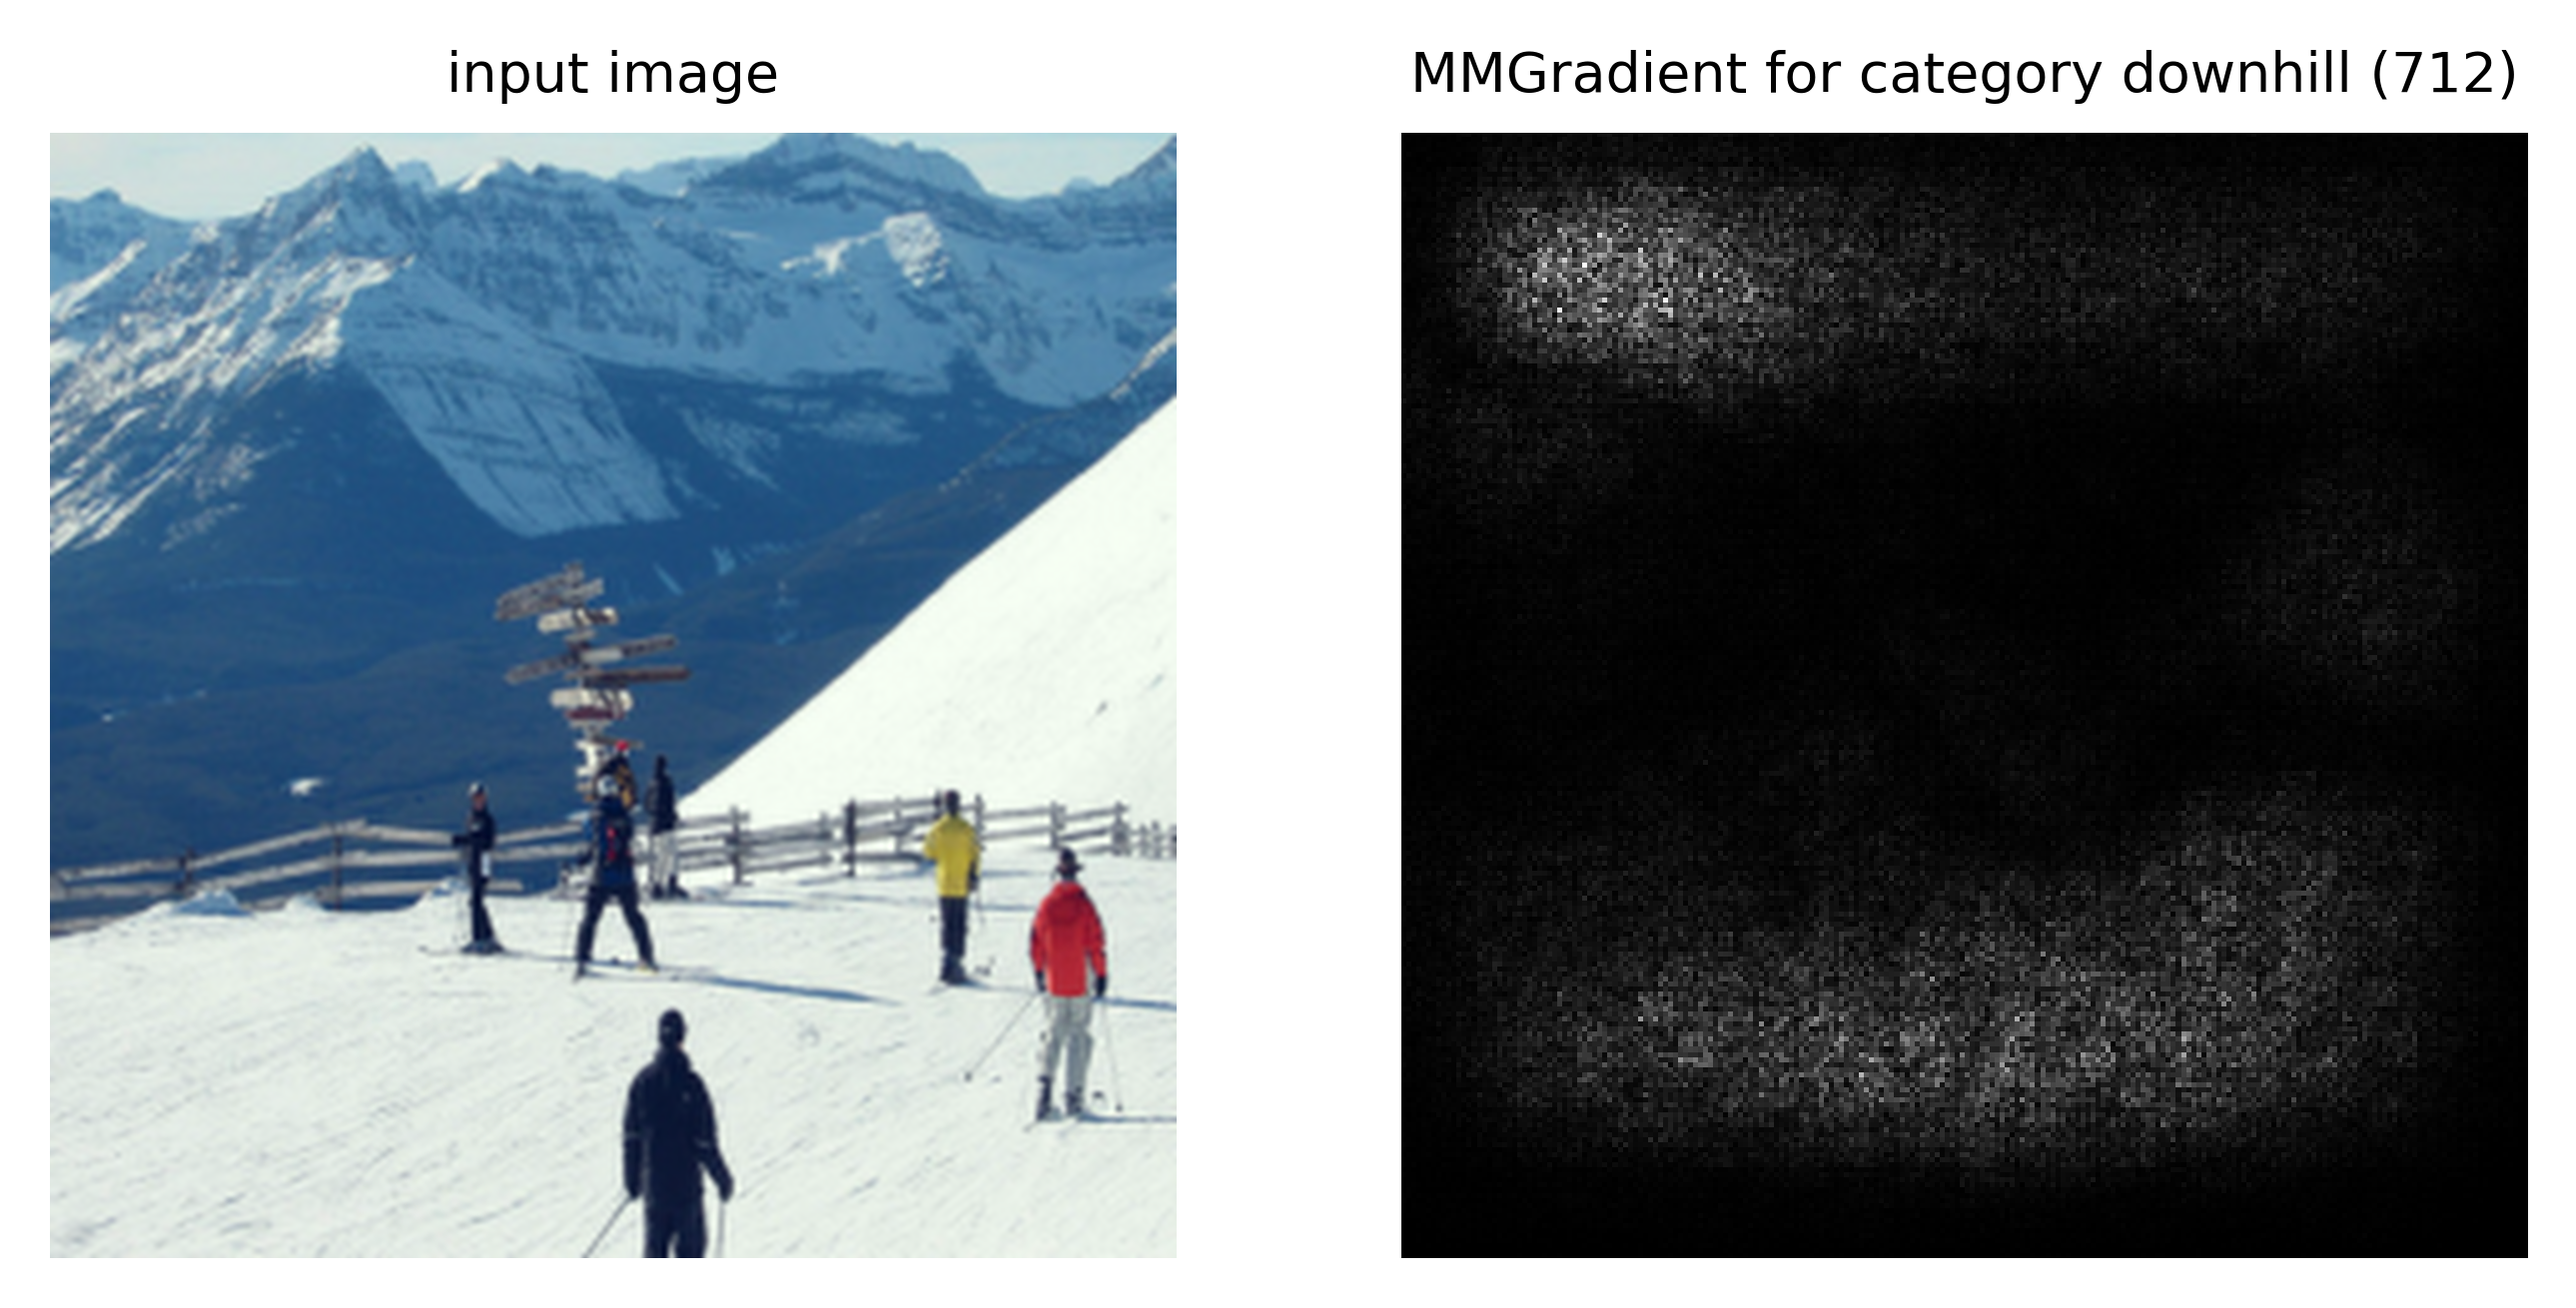
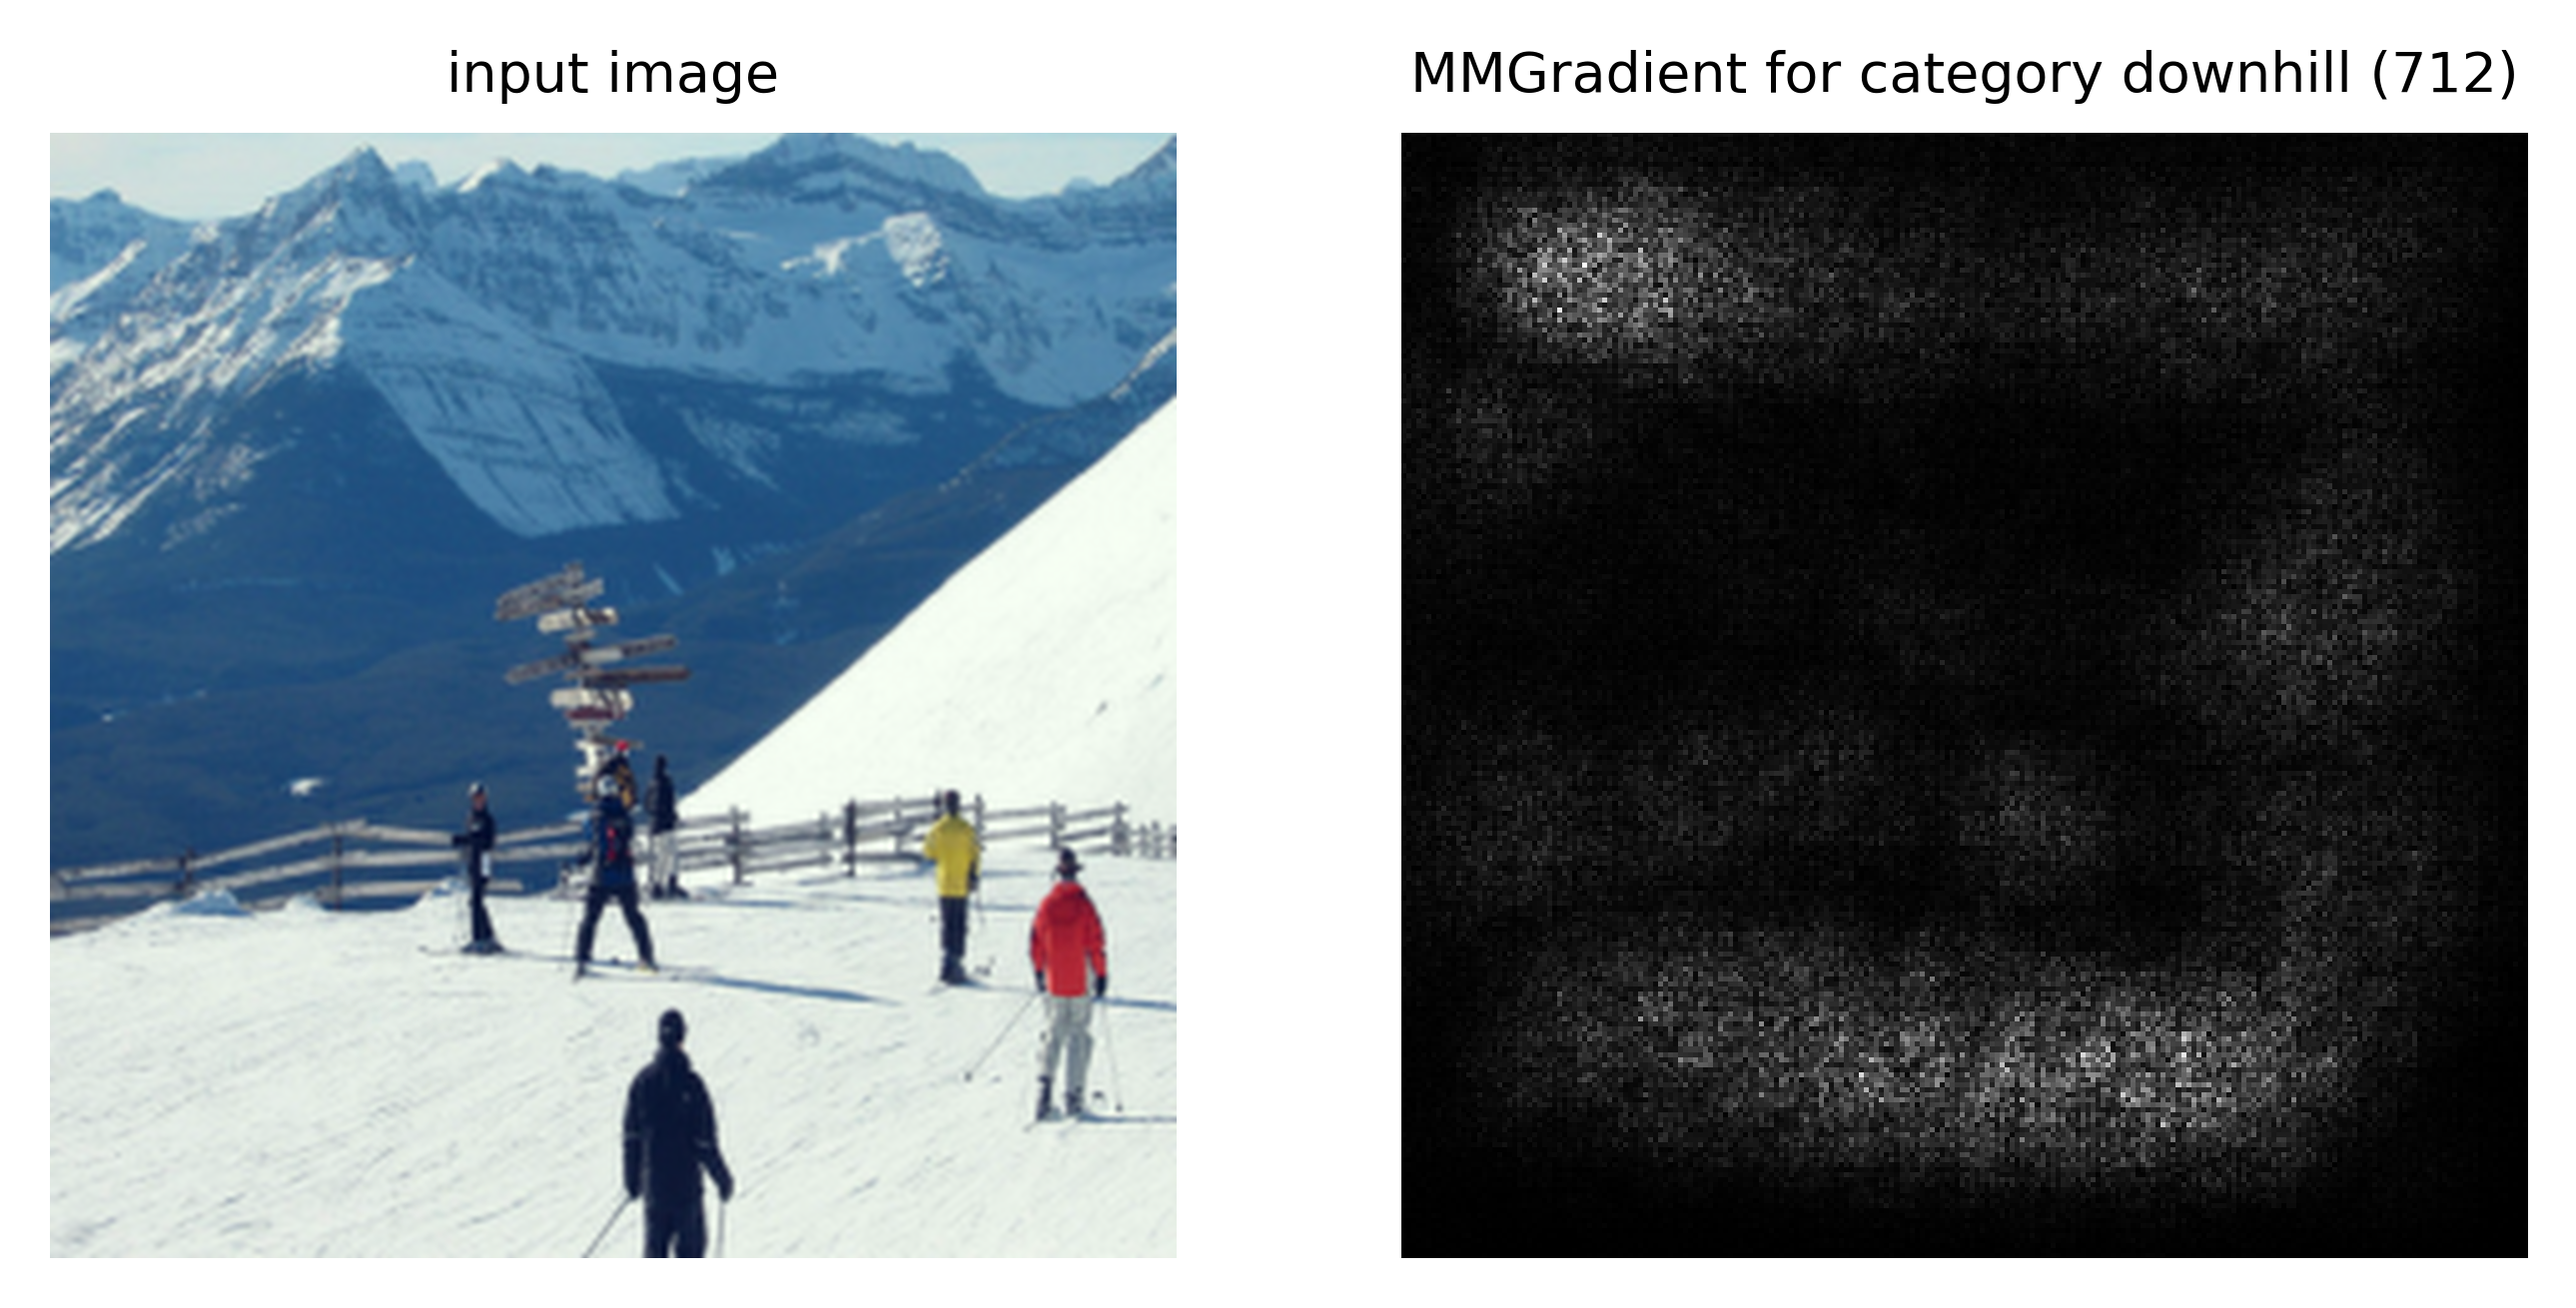
almost GradCAM

diff --git a/mmexp/utils/argument_wrapper.py b/mmexp/utils/argument_wrapper.py
@@ -82,6 +82,28 @@ def run_explainability(model, model_name, image, img_name, question, category_id
                      save_path=save_path + '.png',
                      )
         save_path = save_path + '.png'
+        
+    elif explainability_method == 'MMGradCAM':
+        method = str_to_class(explainability_method)
+        saliency = method(model, 
+                          image,
+                          question,
+                          category_id,
+                          )
+        
+        # visualize gradient map
+        plot_example(model.image_tensor, 
+                     saliency, 
+                     method=explainability_method, 
+                     category_id=category_id,
+                     answer_vocab=answer_vocab,
+                     show_plot=False,
+                     save_path=save_path + '.png',
+                     )
+        save_path = save_path + '.png'
+    
+    
+    
     
     elif explainability_method == 'MMGradientOR':
     
@@ -127,5 +149,51 @@ def run_explainability(model, model_name, image, img_name, question, category_id
                      save_path=save_path + f'_removed_{OR_model.object_name}.png',
                      )
         save_path = [save_path + '.png', save_path + f'_removed_{OR_model.object_name}.png']
+    
+    elif explainability_method == 'MMGradCAM-OR':
+    
+        # get gradient of original image
+        saliency_orig = MMGradient(model, 
+                                   image,
+                                   question,
+                                   category_id,
+                                   )
+        # visualize gradient map
+        plt.subplot(211)
+        plot_example(model.image_tensor, 
+                     saliency_orig, 
+                     method=explainability_method, 
+                     category_id=category_id,
+                     answer_vocab=answer_vocab,
+                     show_plot=False,
+                     save_path=save_path + '.png',
+                     )
+        
+        # remove objects from image
+        method = str_to_class(explainability_method)
+        OR_model = method(img_name)
+        OR_model.remove_object()
+        
+        # Load new image
+        img_path = Path(f"./../imgs/removal_results/{OR_model.object_name}/{img_name.split('/')[-1]}").as_posix()
+        modified_image = load_image(img_path)
+
+        saliency_modified = MMGradient(model, 
+                                       modified_image,
+                                       question,
+                                       category_id,
+                                       )
+        # visualize gradient map
+        plt.subplot(212)
+        plot_example(model.image_tensor, 
+                     saliency_modified, 
+                     method=explainability_method, 
+                     category_id=category_id,
+                     answer_vocab=answer_vocab,
+                     show_plot=False,
+                     save_path=save_path + f'_removed_{OR_model.object_name}.png',
+                     )
+        save_path = [save_path + '.png', save_path + f'_removed_{OR_model.object_name}.png']
+        
         
     return save_path

diff --git a/mmexp/methods/torchray/multimodal_gradcam.py b/mmexp/methods/torchray/multimodal_gradcam.py
@@ -1,0 +1,35 @@
+from torchray.attribution.common import Probe, get_module, resize_saliency
+from torchray.attribution.grad_cam import gradient_to_grad_cam_saliency
+
+
+
+def multimodal_gradcam(model, image_object,
+                       question, category_id, 
+                       context_builder=None, 
+                       resize=False, resize_mode='bilinear',
+                       **kwargs):
+
+    
+    layer_names = list(zip(*list(model.named_modules())))[0]
+    
+    # Grad-CAM backprop.
+    saliency_layer = get_module(model, 'model.vision_module')
+    
+    probe = Probe(saliency_layer, target='output')
+    
+    # Gradient method.
+    y = model.classify(image_object, question, explain=True)
+    z = y[0, category_id]
+    z.backward()
+    
+    image_tensor = model.image_tensor
+
+    saliency = gradient_to_grad_cam_saliency(probe.data[0])
+    
+    saliency = resize_saliency(image_tensor, 
+                               saliency, 
+                               True, 
+                               mode=resize_mode,
+                               )
+    
+    return saliency

diff --git a/mmexp/methods/__init__.py b/mmexp/methods/__init__.py
@@ -9,10 +9,12 @@ Created on Wed Apr 27 15:06:27 2022
 from .torchray.multimodal_extremal_perturbation import multi_extremal_perturbation as MMEP
 from .torchray.multimodal_gradient import multimodal_gradient as MMGradient
 from .qlarifais.object_removal import ObjectRemoval as MMGradientOR
+from .torchray.multimodal_gradcam import multimodal_gradcam as MMGradCAM
 
 __all__ = [
     "MMEP",
     "MMGradient",
     "MMGradientOR",
+    "MMGradCAM",
     
 ]

diff --git a/mmf/mmf/models/interfaces/qlarifais.py b/mmf/mmf/models/interfaces/qlarifais.py
@@ -86,7 +86,7 @@ class QlarifaisInterface(nn.Module):
         sample_list['answers'] = 'empty'    
         
         output = self.model(sample_list)
-        scores = nn.functional.softmax(output["scores"], dim=1)                      
+        scores = nn.functional.softmax(output["prediction_scores"], dim=1)                      
         
         if top_k != None:
             confidence, indices = scores.topk(5, dim=1)

diff --git a/mmexp/methods/torchray/multimodal_gradient.py b/mmexp/methods/torchray/multimodal_gradient.py
@@ -7,7 +7,6 @@ Created on Wed Apr 27 15:29:22 2022
 """
 
 from .attribution.common import gradient_to_saliency, resize_saliency
-from .attribution.common import multimodal_saliency
 
 
 def multimodal_gradient(model, image_object,
